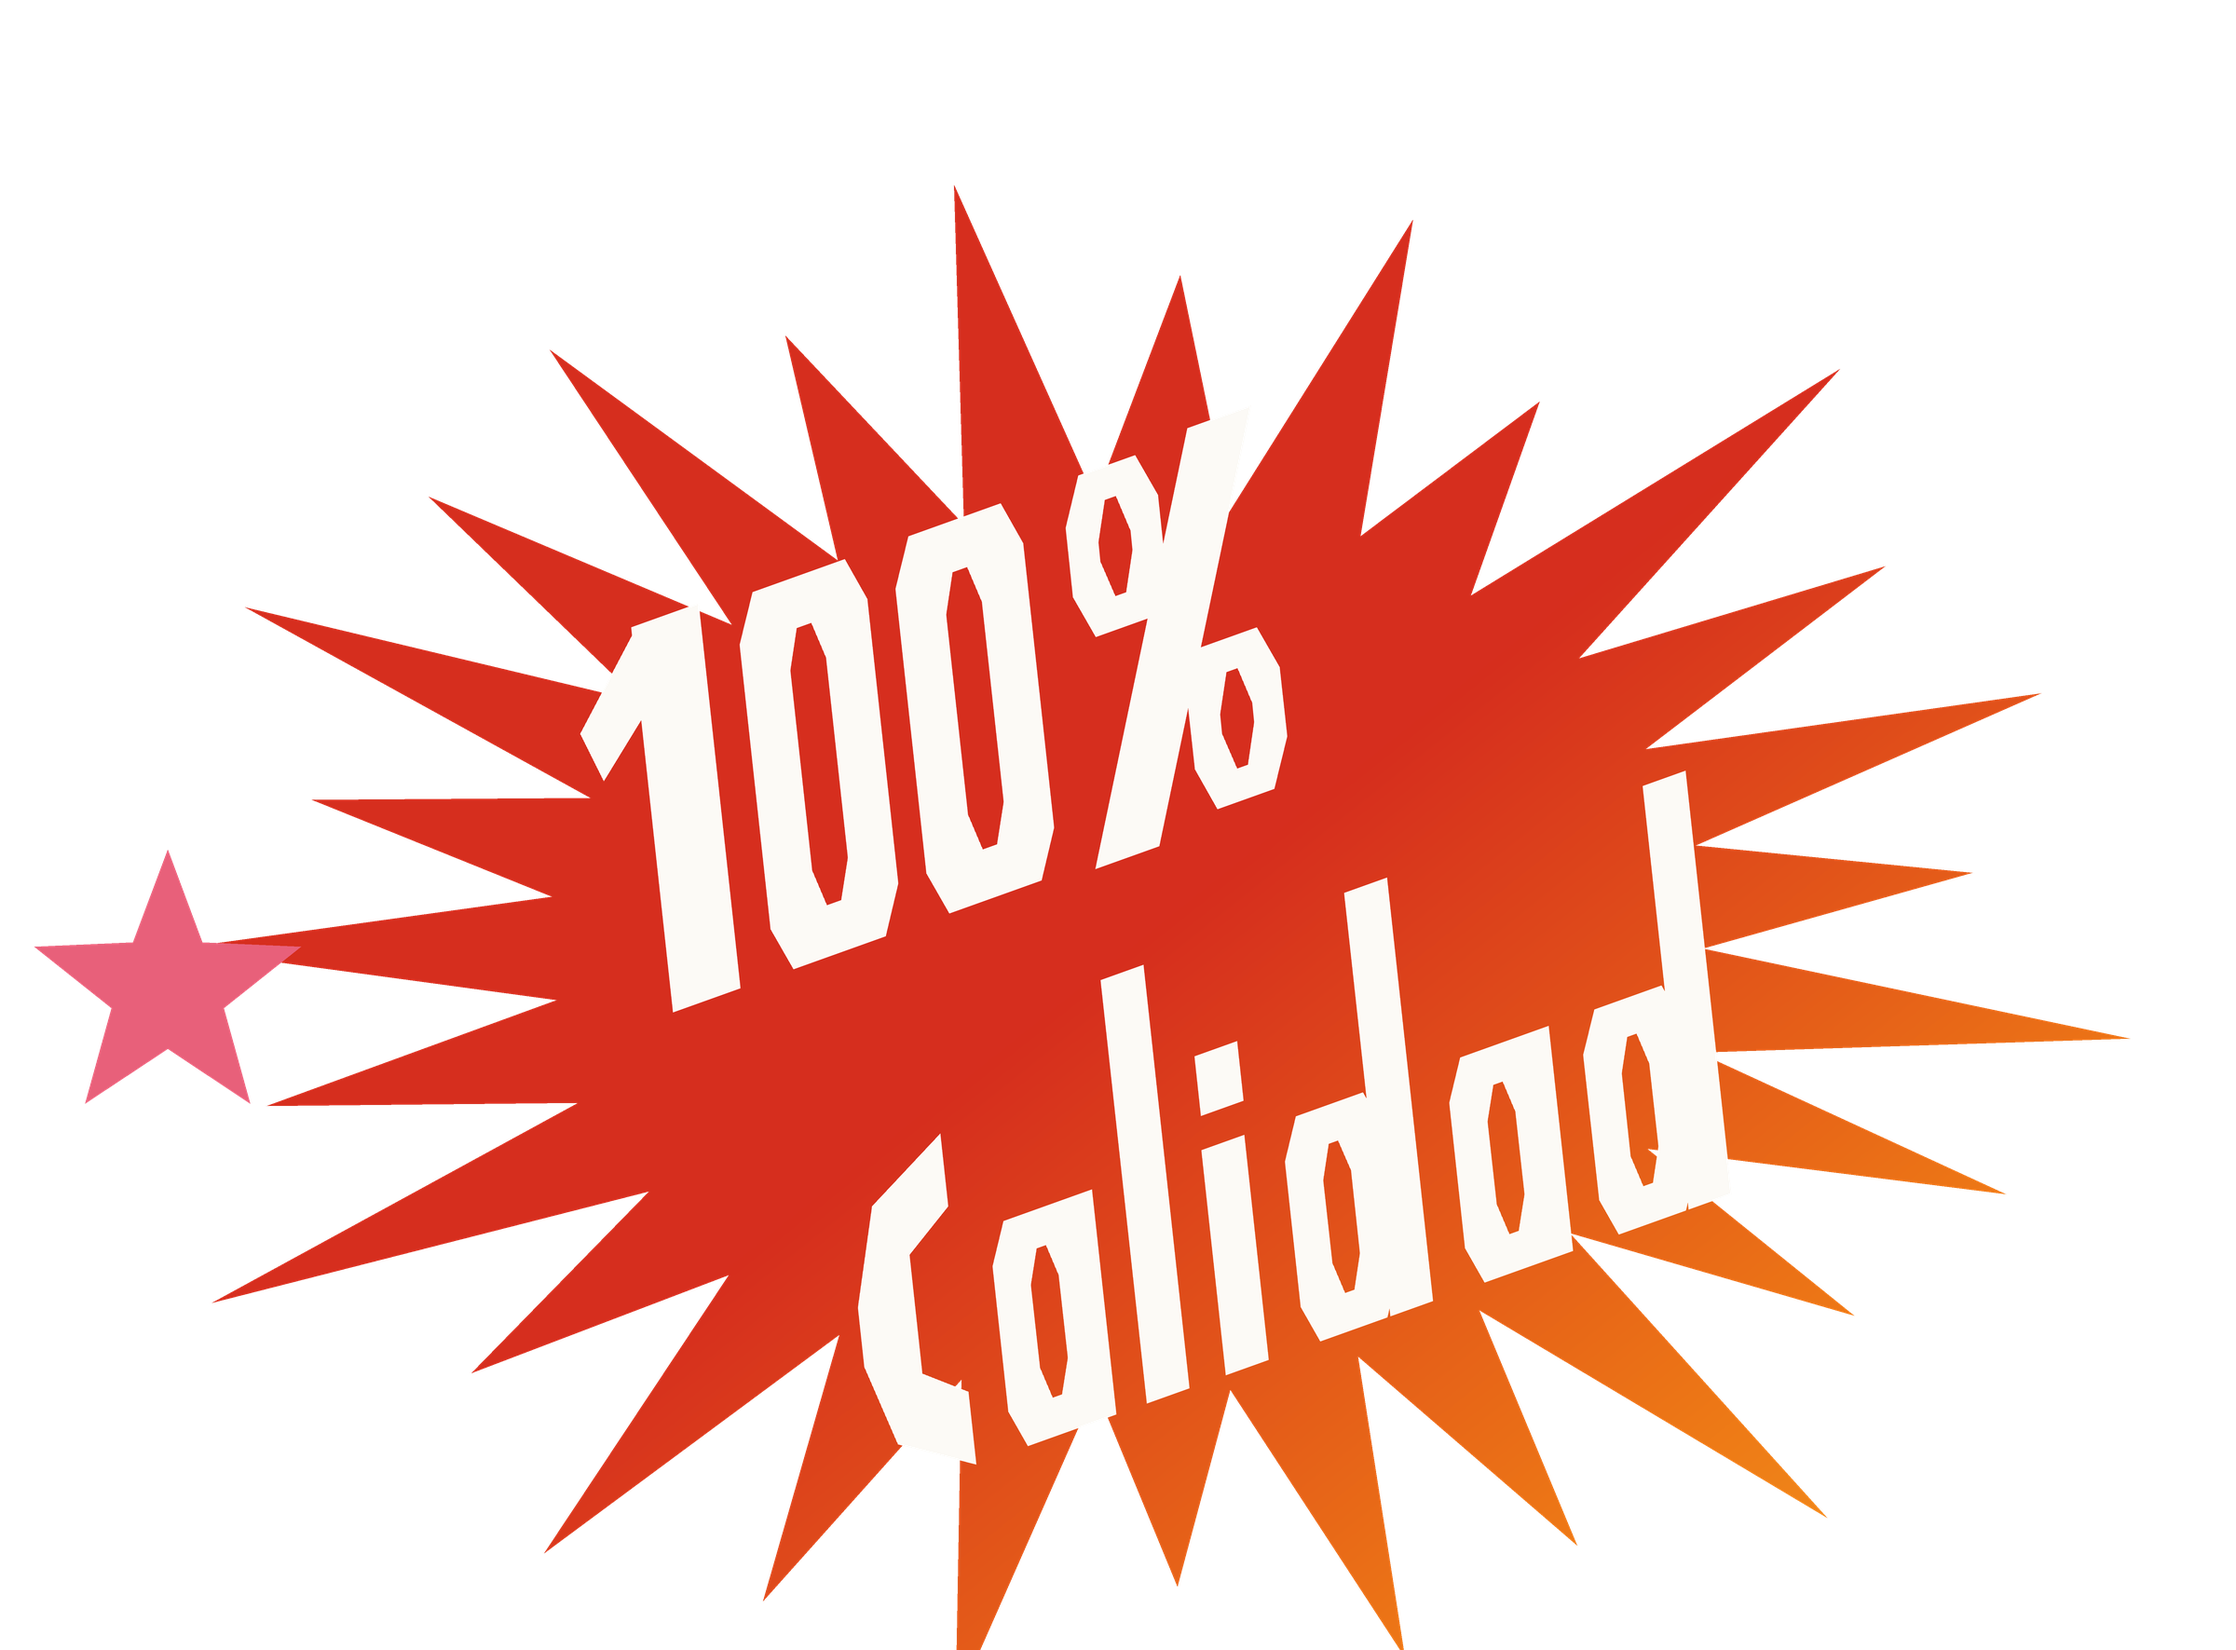
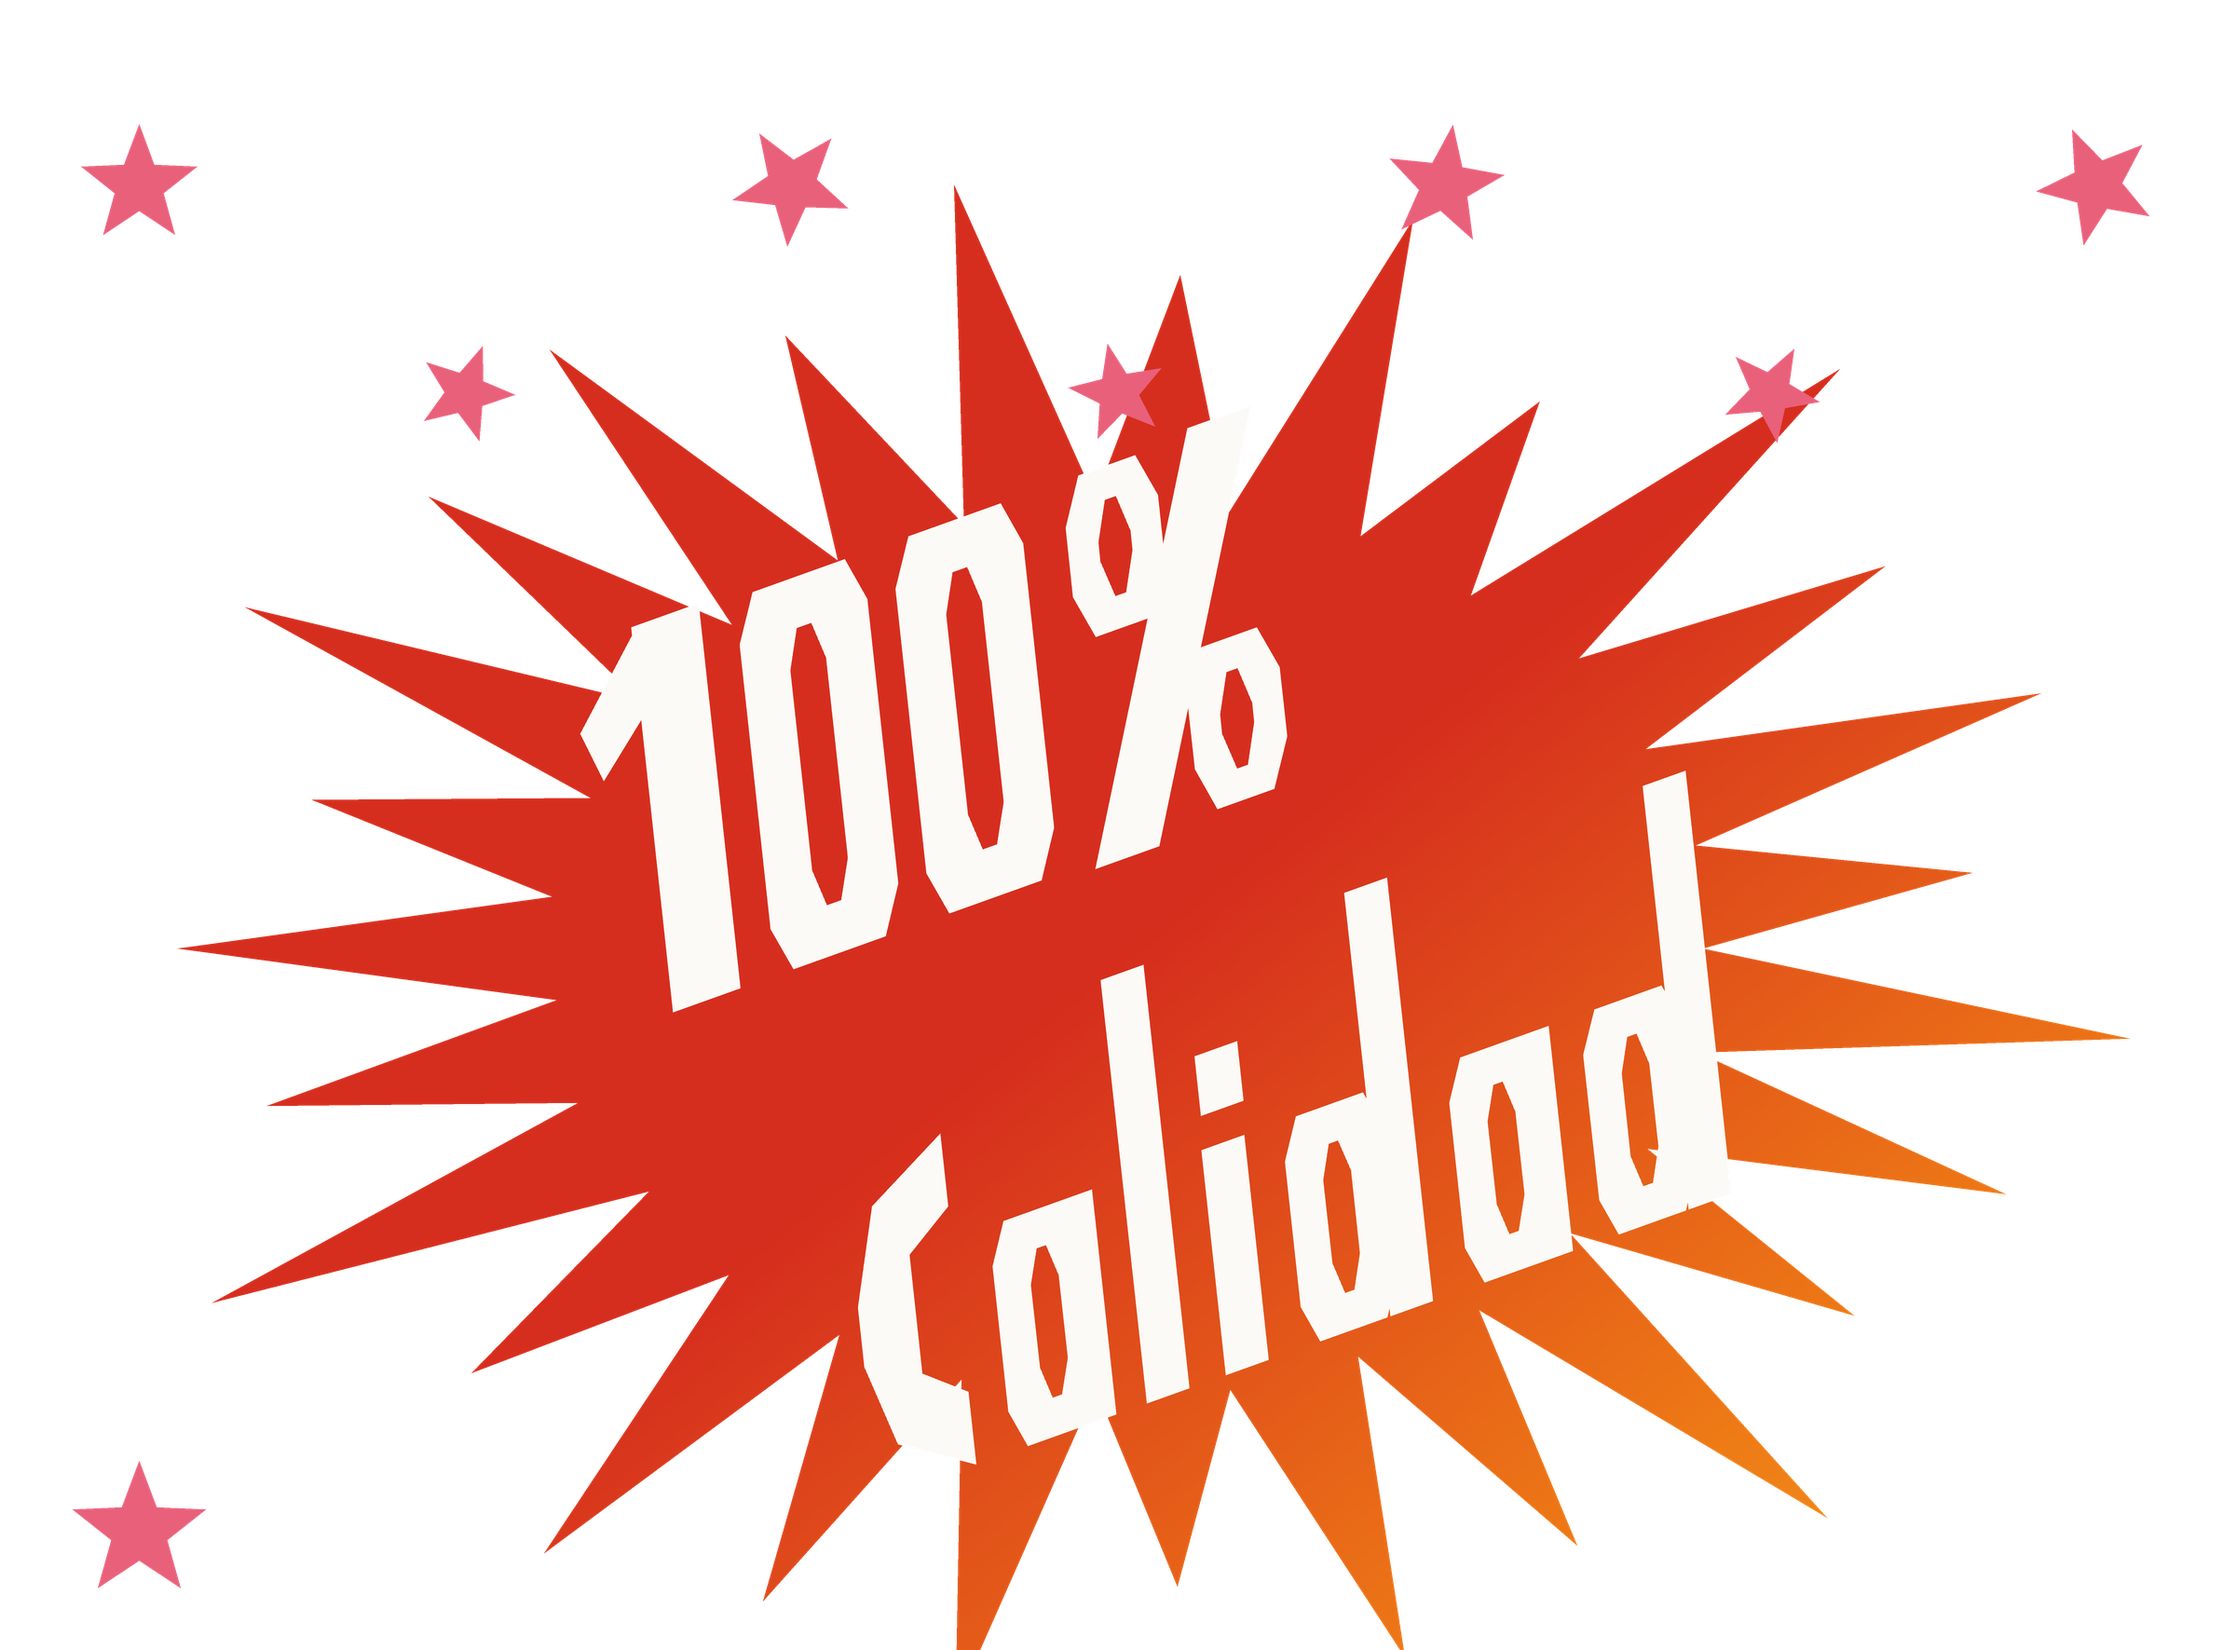
rev 48: HIS RULING -- they were never bunting, they are STARS
"They are actually stars that were not properly represented."

Asked with a three-way crop: the RED bus (ref_side.jpg -- the target
vehicle, and where this decal is biggest at 99 x 75 px), the GREEN bus
(IMG_2073.jpeg, 44 x 62), and tex/calidad.png.

WHAT THAT SETTLES, AND WHAT IT CORRECTS IN THE RECORD.

Rev 45 drew a band of BUNTING above the burst -- two bars with triangular
pennants.  Rev 46 retired it at his instruction, and recorded the reason as
"No frame we hold shows them."  THAT REASON IS FALSE.  ref_side.jpg shows the
band plainly at 7x; rev 46 was reading ref_playa_34.png, where the burst is
23 x 39 px and the marks are sub-pixel.  Their PRESENCE was never the error.
Their IDENTITY was, and only he could settle it.

The bunting stays retired -- he did not ask for pennants back -- so the three
absence rows still stand AND four presence rows are added beside them.

MEASURED, on the target vehicle, ref_side.jpg, window (700,280)-(870,400),
red mask (R - G) > 26, watched print:

    the burst      x 733..836  y 306..383   ->  103 x 77 px
    the mark band  x 700..869  y 281..320   ->  169 x 39 px

expressed against the burst so it is dimensionless (rule 14), and derived
from the burst's own centre and radius AT DRAW TIME (rule 2) rather than
typed in canvas units -- which is the defect W1 had to fix once already:

    band x  -0.82 .. +0.82 of burst WIDTH about its centre
    band y  -0.82 .. -0.32 of burst HEIGHT
[…]

diff --git a/cal_gen.py b/cal_gen.py
@@ -343,6 +343,76 @@ def glyph_calidad(t, x, y, s):
 # the scope of a decal fix.
 
 
+STAR_N = 7
+# NOT MEASURED.  The red bus's mark band is one merged 1499-px component in
+# every threshold tried -- the frames are blown.  Seven is a POSE CHOICE that
+# fills the measured band at the measured mark scale.  Provenance: rev 48, his
+# ruling "They are actually stars that were not properly represented"; no
+# count is derivable from any frame of the RED bus.
+
+# Band and scale, measured off ref_side.jpg and expressed against the burst.
+STAR_BAND_X = (-0.82, 0.82)      # of burst width, about its centre
+STAR_BAND_Y = (-0.82, -0.32)     # of burst height, about its centre
+STAR_R = 0.085                   # of burst radius; the isolated left-hand
+                                 # mark measures 6 x 4 px against a 103 px
+                                 # burst width -> 0.05..0.08.  Kept at the
+                                 # rev-45 value, which is inside that band.
+
+
+def _star(d, sx, sy, sr, fill, points=5, dent=0.42, phase=-math.pi / 2):
+    sp = []
+    for i in range(points * 2):
+        a = math.pi * i / points + phase
+        r = sr if i % 2 == 0 else sr * dent
+        sp.append((sx + r * math.cos(a), sy + r * math.sin(a)))
+    d.polygon(sp, fill=fill + (255,))
+
+
+def _stars(d, cx, cy, RO):
+    """The star band above the burst, plus the isolated lower-left mark.
+
+    Positions are DERIVED from the burst's own centre and radius at draw time
+    (rule 2), never typed in canvas units, so they follow the burst if it
+    moves -- which is exactly what W1 had to fix once already.
+    """
+    bw = RO * 2.0
+    r = STAR_R * RO
+    # THE MEASURED BAND IS WIDER THAN THE DECAL PANEL, AND THAT IS A FINDING,
+    # NOT A BUG.  +-0.82 of burst WIDTH about its centre is +-1.64 RO, and the
+    # canvas holds only ~+-1.0 RO either side of the burst.  On the vehicle
+    # those outermost marks are painted on the BODY, beyond this decal's own
+    # rectangle; this texture physically cannot carry them.  Clamped to the
+    # canvas with a margin, and the number that fell outside is REPORTED
+    # rather than silently dropped -- a cap nobody logs reads as coverage.
+    mx, my = w * 0.035 + r, h * 0.035 + r
+    x0 = max(mx, cx + STAR_BAND_X[0] * bw)
+    x1 = min(w - mx, cx + STAR_BAND_X[1] * bw)
+    y0 = max(my, cy + STAR_BAND_Y[0] * bw)
+    y1 = max(my, cy + STAR_BAND_Y[1] * bw)
+    want = [cx + (STAR_BAND_X[0] + (STAR_BAND_X[1] - STAR_BAND_X[0])
+                  * i / float(STAR_N - 1)) * bw for i in range(STAR_N)]
+    outside = sum(1 for v in want if v < mx or v > w - mx)
+    n = 0
+    for i in range(STAR_N):
+        t = i / float(STAR_N - 1)
+        sx = x0 + (x1 - x0) * t
+        # two staggered rows, which is how the band reads at 7x
+        sy = y0 + (y1 - y0) * (0.18 if i % 2 == 0 else 0.74)
+        _star(d, sx, sy, r * (1.0 if i % 2 == 0 else 0.82), PINK,
+              phase=-math.pi / 2 + 0.35 * i)
+        n += 1
+    # the one mark that IS separately resolved: components at x 702..713,
+    # y 381..391, i.e. below and LEFT of the burst.  rev 45 drew a star to the
+    # left and it was the only one; it stays, moved onto its measured station,
+    # clamped into the canvas on the same grounds as the band.
+    _star(d, max(mx, cx - 0.92 * bw), min(h - my, cy + 0.52 * bw),
+          r * 1.15, PINK)
+    print("  stars: %d drawn in the band + 1 isolated; the measured band runs "
+          "to +-%.2f RO and the canvas holds +-%.2f RO, so %d of the %d band "
+          "positions fall OUTSIDE this decal's own rectangle and are clamped"
+          % (n, abs(STAR_BAND_X[0]) * 2.0, (cx - mx) / RO, outside, STAR_N))
+
+
 def main():
     img = Image.new("RGBA", (w, h), (0, 0, 0, 0))
     d = ImageDraw.Draw(img)
@@ -350,14 +420,41 @@ def main():
     img = gradient(img, cx, cy)
     d = ImageDraw.Draw(img)
 
-    # small pink star to the left (SPEC sec.3)
-    sx, sy, sr = w * 0.075, h * 0.60, h * 0.085
-    sp = []
-    for i in range(10):
-        a = math.pi * i / 5 - math.pi / 2
-        r = sr if i % 2 == 0 else sr * 0.42
-        sp.append((sx + r * math.cos(a), sy + r * math.sin(a)))
-    d.polygon(sp, fill=PINK + (255,))
+    # ------------------------------------------------ rev 48: THEY ARE STARS
+    # HIS RULING, rev 48, verbatim: "They are actually stars that were not
+    # properly represented."
+    #
+    # He was answering a marked three-way crop of this decal on the RED bus
+    # (ref_side.jpg, the target vehicle), the GREEN bus (IMG_2073.jpeg) and
+    # the build.  Above the burst the red bus carries a band of marks that
+    # rev 45 drew as BUNTING -- two bars with triangular pennants -- and that
+    # rev 46 retired at his instruction.  Rev 46 also recorded the reason as
+    # "no frame we hold shows them", WHICH IS FALSE: ref_side.jpg shows them
+    # plainly at 7x.  What was wrong was not their presence but their
+    # IDENTITY, and only he could settle that.  They are stars.
+    #
+    # WHAT IS MEASURED, on ref_side.jpg, window (700,280)-(870,400), red mask
+    # (R - G) > 26, watched print:
+    #     the burst        x 733..836  y 306..383   ->  103 x 77 px
+    #     the mark band    x 700..869  y 281..320   ->  169 x  39 px
+    # Expressed against the burst, so it is dimensionless (rule 14):
+    #     band x  -0.82 .. +0.82 of burst WIDTH about its centre
+    #     band y  -0.82 .. -0.32 of burst HEIGHT about its centre
+    # The band overlaps the burst's upper spikes, which is what the crop shows.
+    #
+    # WHAT IS NOT MEASURED, AND IT IS THE COUNT.  The band comes back as ONE
+    # connected component of 1499 px.  Both red frames are BLOWN in the
+    # highlights, so the individual stars do not separate at any threshold --
+    # the same failure that stopped this revision measuring the word gap off
+    # the red bus.  STAR_N is therefore a POSE CHOICE carrying NOT MEASURED in
+    # its own comment, and verify_clone requires that declaration to stay, so
+    # a later revision cannot quietly promote it (the LINE_GAP precedent).
+    #
+    # THE GREEN BUS RESOLVES THEM CLEANLY and is NOT used: he has ruled that
+    # artwork may not transfer between the two vehicles, and this revision has
+    # measured their decals to be different artwork (spike depth 0.133/0.239
+    # against 0.044).  The green frame is admissible for GEOMETRY only.
+    _stars(d, cx, cy, RO)
 
     # type on its own mask so the counters punch through, then rotated as one
     # block so the two lines stay parallel at the measured -19.7 degrees
